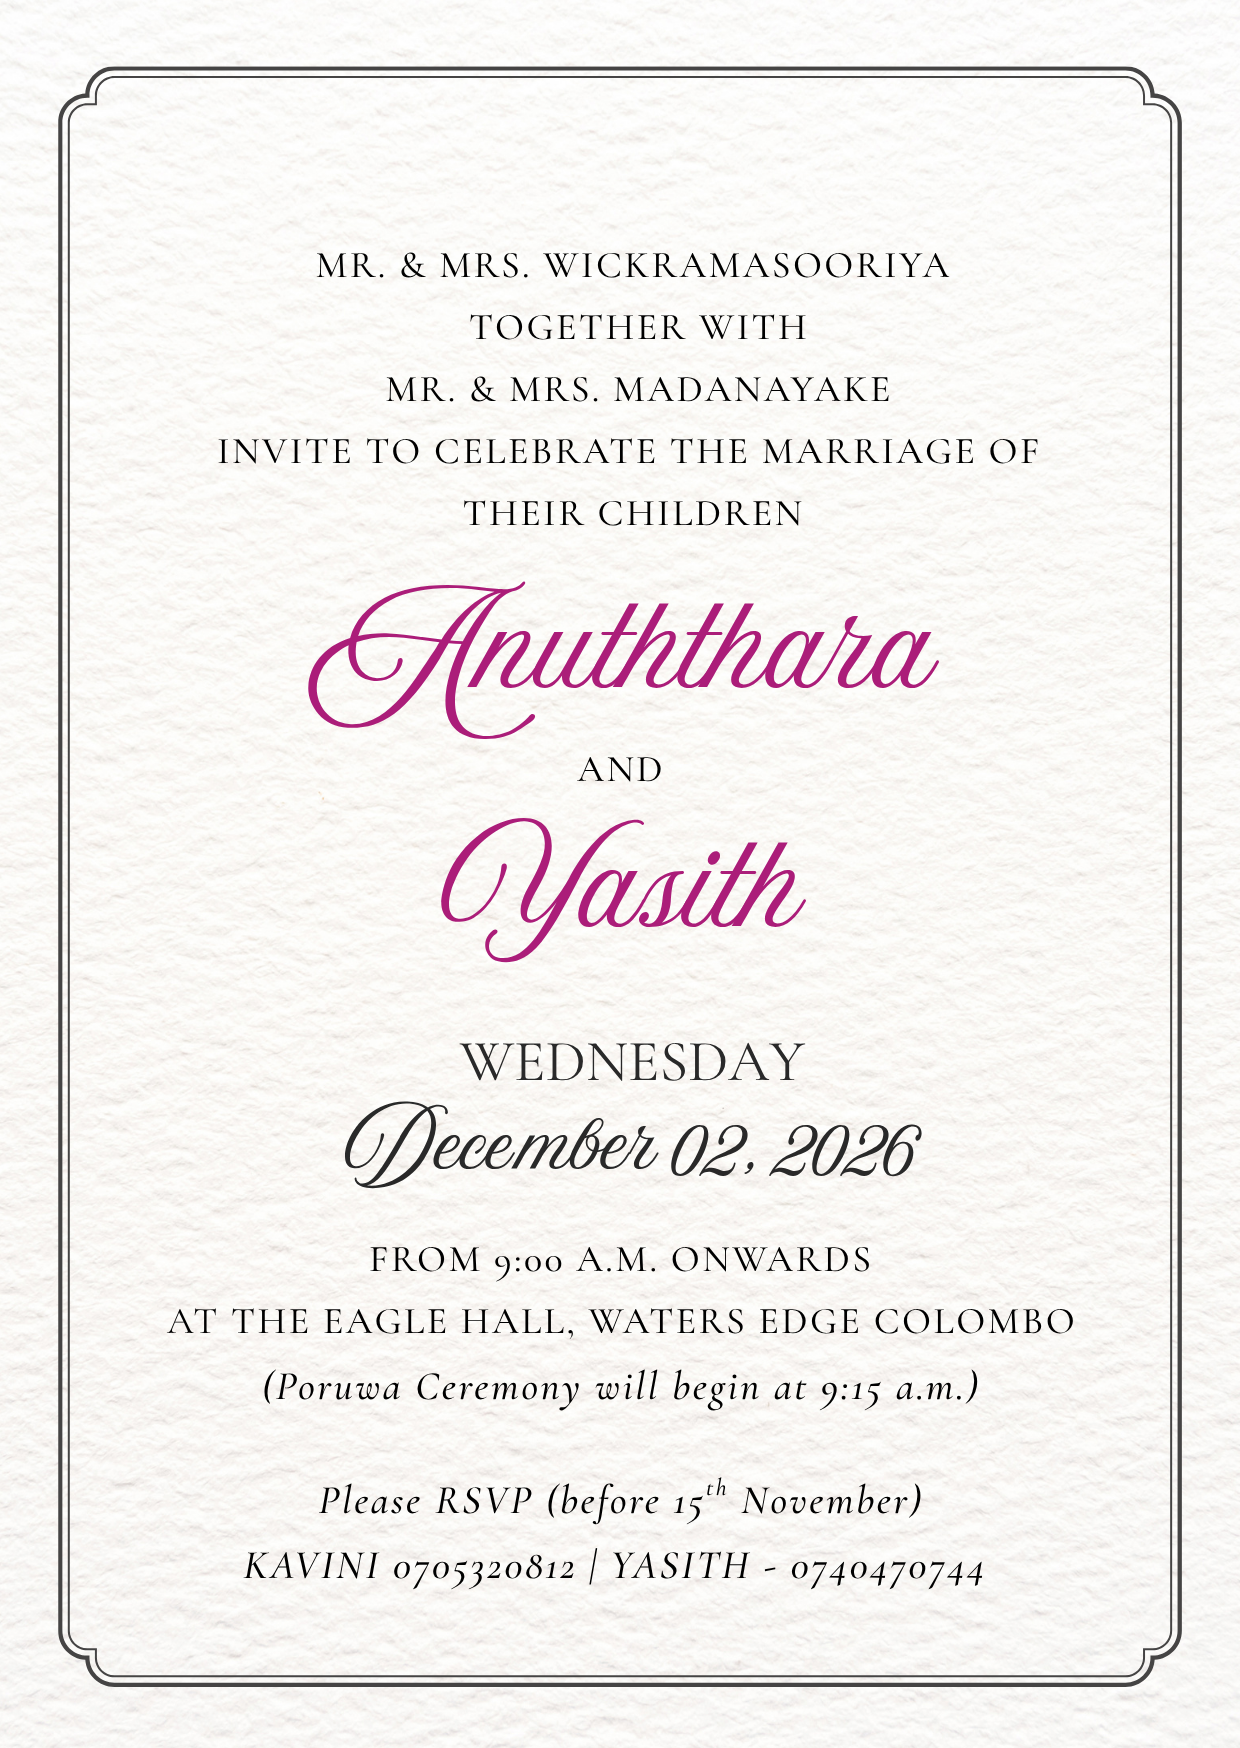
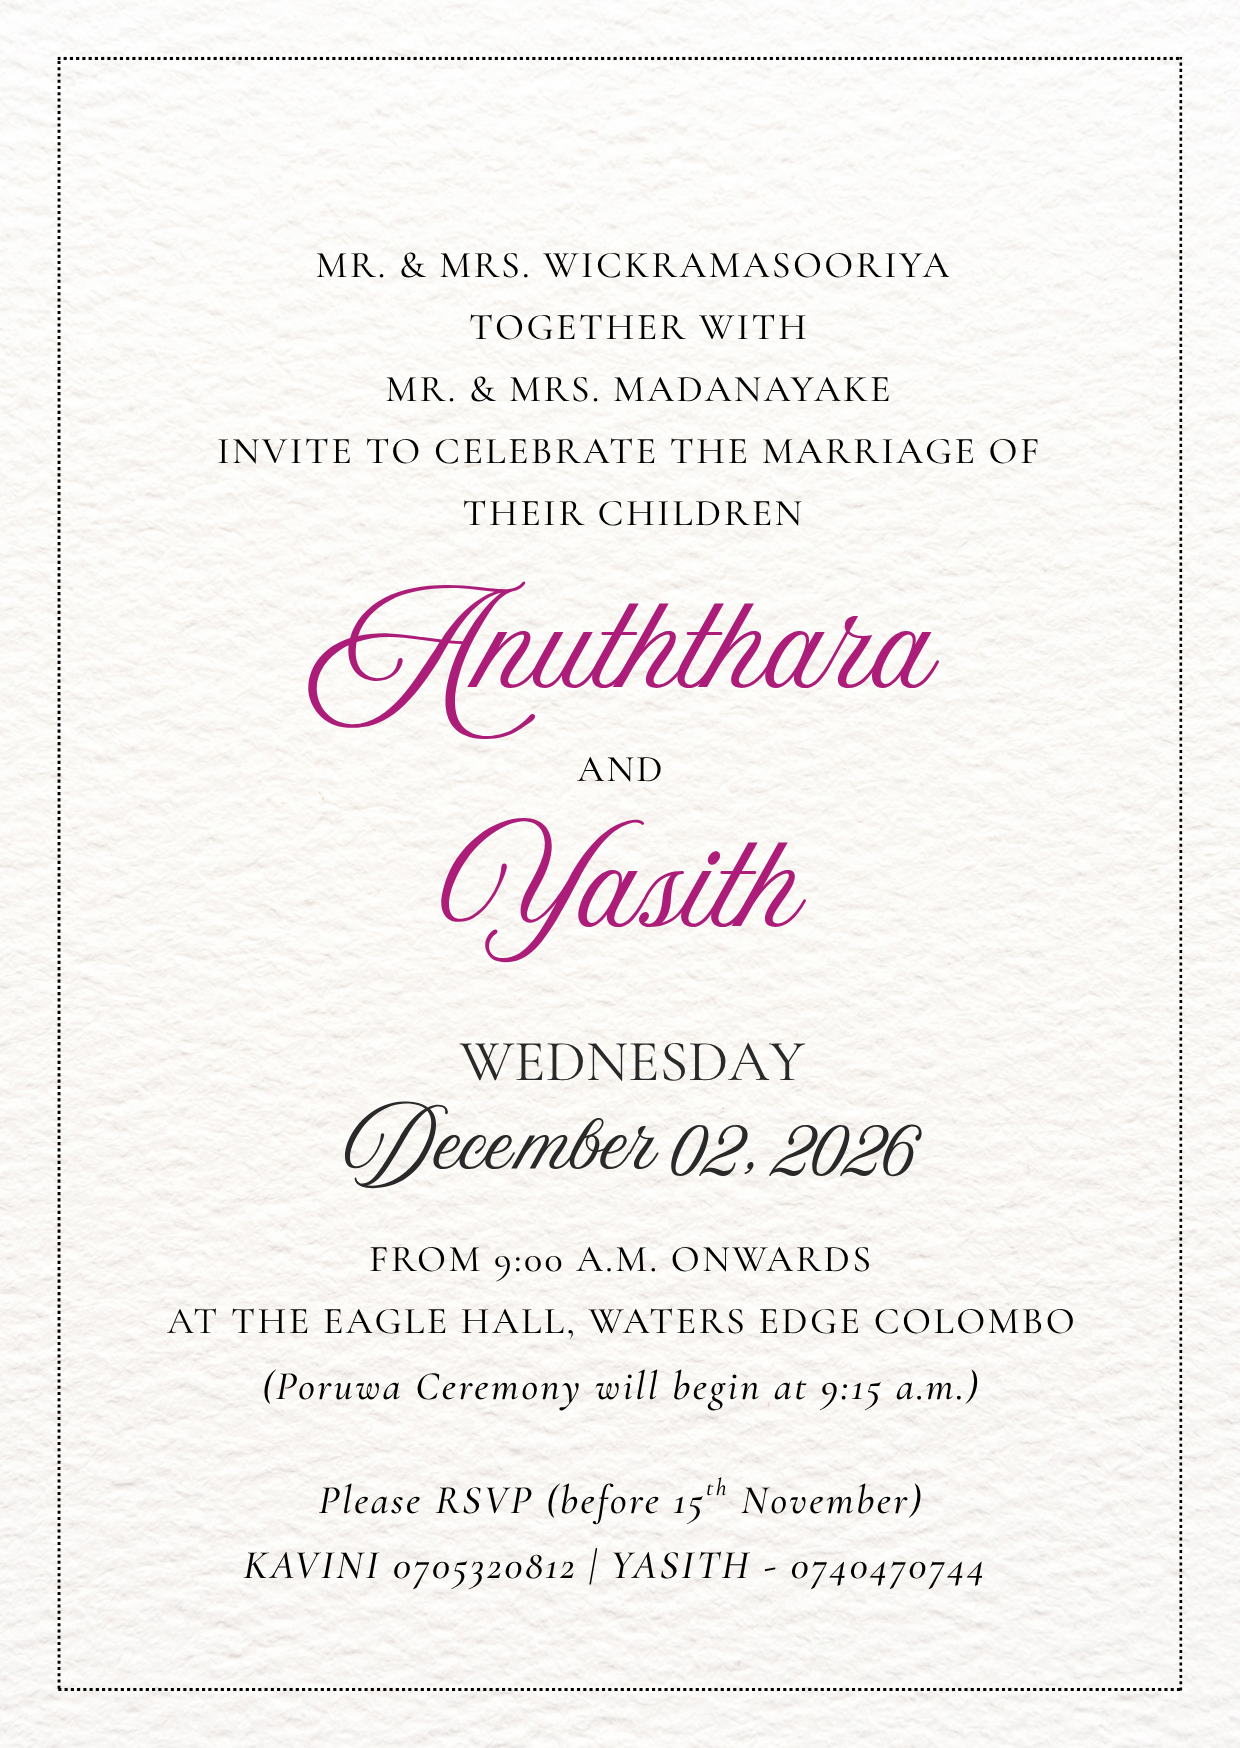
Add new wedding invitation card images and enhance auto-scroll effect; update styles for improved mobile experience

Changed region(s): [[0.0306, 0.0309, 0.9806, 0.9886]]

diff --git a/src/App.js b/src/App.js
@@ -21,37 +21,42 @@ export default function App() {
 
   const audioRef = useRef(new Audio("/music/background.mp3"));
 
-  // Auto-scroll effect once the website stage is active
+  // Enhanced Auto-scroll effect optimized for iPhone & Mobile deployment
   useEffect(() => {
     if (stage !== "website") return;
 
-    let scrollInterval;
-    let frameId;
+    let animationFrameId;
+    let startTimeout;
 
-    const startTimeout = setTimeout(() => {
-      frameId = requestAnimationFrame(() => {
-        scrollInterval = setInterval(() => {
-          window.scrollBy({ top: 3, behavior: "smooth" });
-        }, 20);
-      });
-    }, 1200);
+    const startScroll = () => {
+      startTimeout = setTimeout(() => {
+        const step = () => {
+          window.scrollBy({ top: 2, behavior: "auto" });
+          animationFrameId = requestAnimationFrame(step);
+        };
+        animationFrameId = requestAnimationFrame(step);
+      }, 1200);
+    };
+
+    startScroll();
 
     const stopAutoScroll = () => {
-      if (scrollInterval) clearInterval(scrollInterval);
-      if (frameId) cancelAnimationFrame(frameId);
+      if (startTimeout) clearTimeout(startTimeout);
+      if (animationFrameId) cancelAnimationFrame(animationFrameId);
     };
 
     window.addEventListener("wheel", stopAutoScroll, { passive: true });
     window.addEventListener("touchstart", stopAutoScroll, { passive: true });
     window.addEventListener("mousedown", stopAutoScroll, { passive: true });
+    window.addEventListener("scroll", stopAutoScroll, { passive: true });
 
     return () => {
-      clearTimeout(startTimeout);
-      if (scrollInterval) clearInterval(scrollInterval);
-      if (frameId) cancelAnimationFrame(frameId);
+      if (startTimeout) clearTimeout(startTimeout);
+      if (animationFrameId) cancelAnimationFrame(animationFrameId);
       window.removeEventListener("wheel", stopAutoScroll);
       window.removeEventListener("touchstart", stopAutoScroll);
       window.removeEventListener("mousedown", stopAutoScroll);
+      window.removeEventListener("scroll", stopAutoScroll);
     };
   }, [stage]);
 
@@ -121,7 +126,7 @@ export default function App() {
               className="w-full max-w-lg rounded-2xl overflow-hidden shadow-[0_25px_70px_rgba(0,0,0,0.4)] border-4 border-[#b39263] bg-[#fcfbf9] relative my-auto flex flex-col items-center p-2 sm:p-4"
             >
               <img
-                src="/photos/card.png"
+                src="/photos/card.jpg"
                 alt="Wedding Invitation Card"
                 className="w-full h-auto object-contain rounded-xl max-h-[80vh]"
               />

diff --git a/src/components/DateDisplay.jsx b/src/components/DateDisplay.jsx
@@ -40,7 +40,7 @@ export default function DateDisplay() {
       {/* Soft decorative background lighting */}
       <div className="absolute top-1/2 left-1/2 -translate-x-1/2 -translate-y-1/2 w-[80%] h-[80%] bg-lavender-200/20 rounded-full blur-[100px] pointer-events-none -z-0" />
 
-      <motion.p variants={itemVariants} className="font-serif italic text-lavender-500 mb-4 text-lg">
+      <motion.p variants={itemVariants} className="font-serif italic text-gray-500 mb-4 text-lg">
         Mr. & Mrs. Wickramasooriya <br />
             Together with <br />
             Mr. & Mrs. Madanayake <br/>
